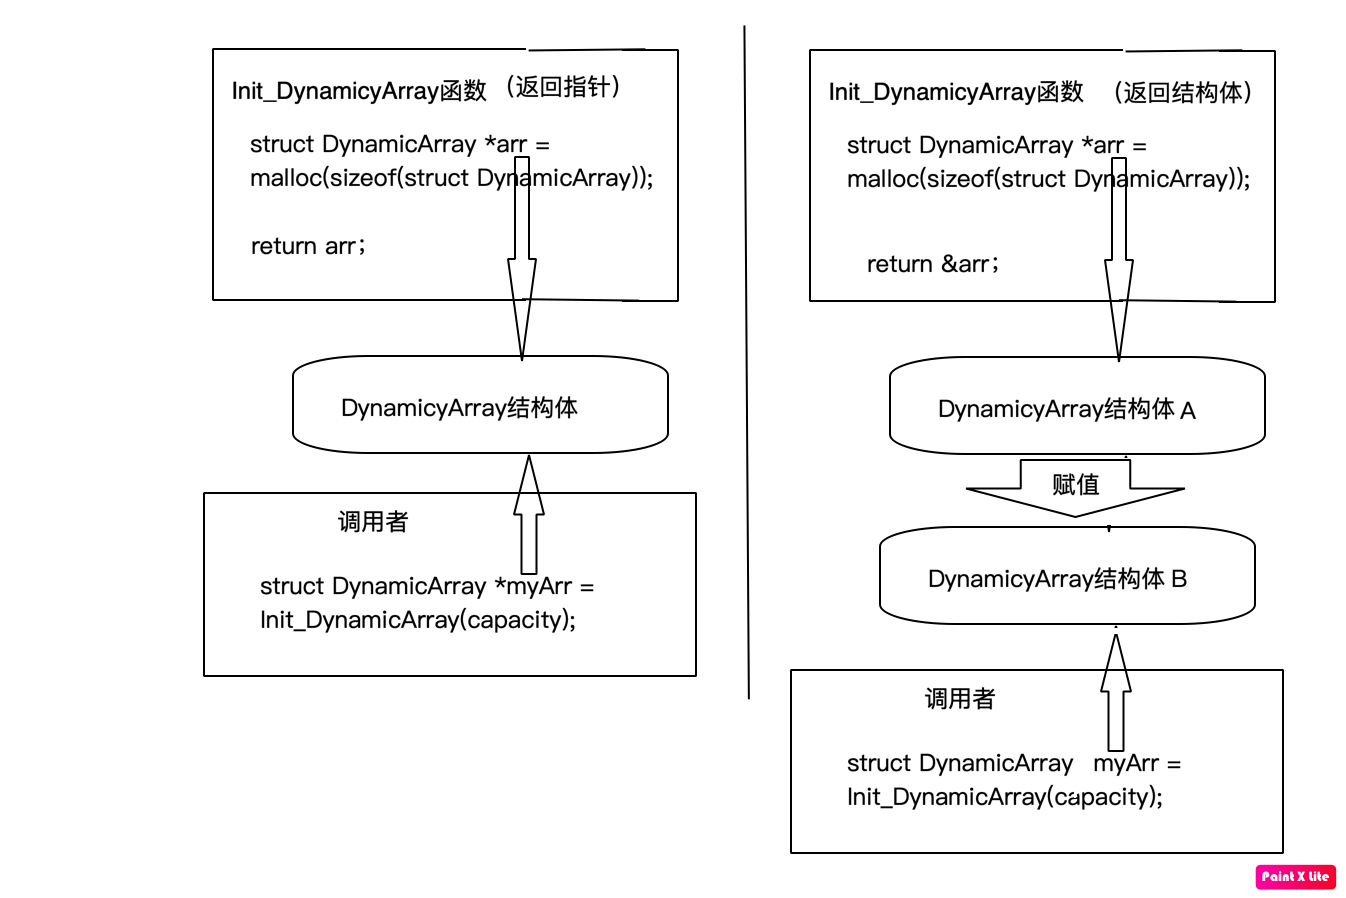
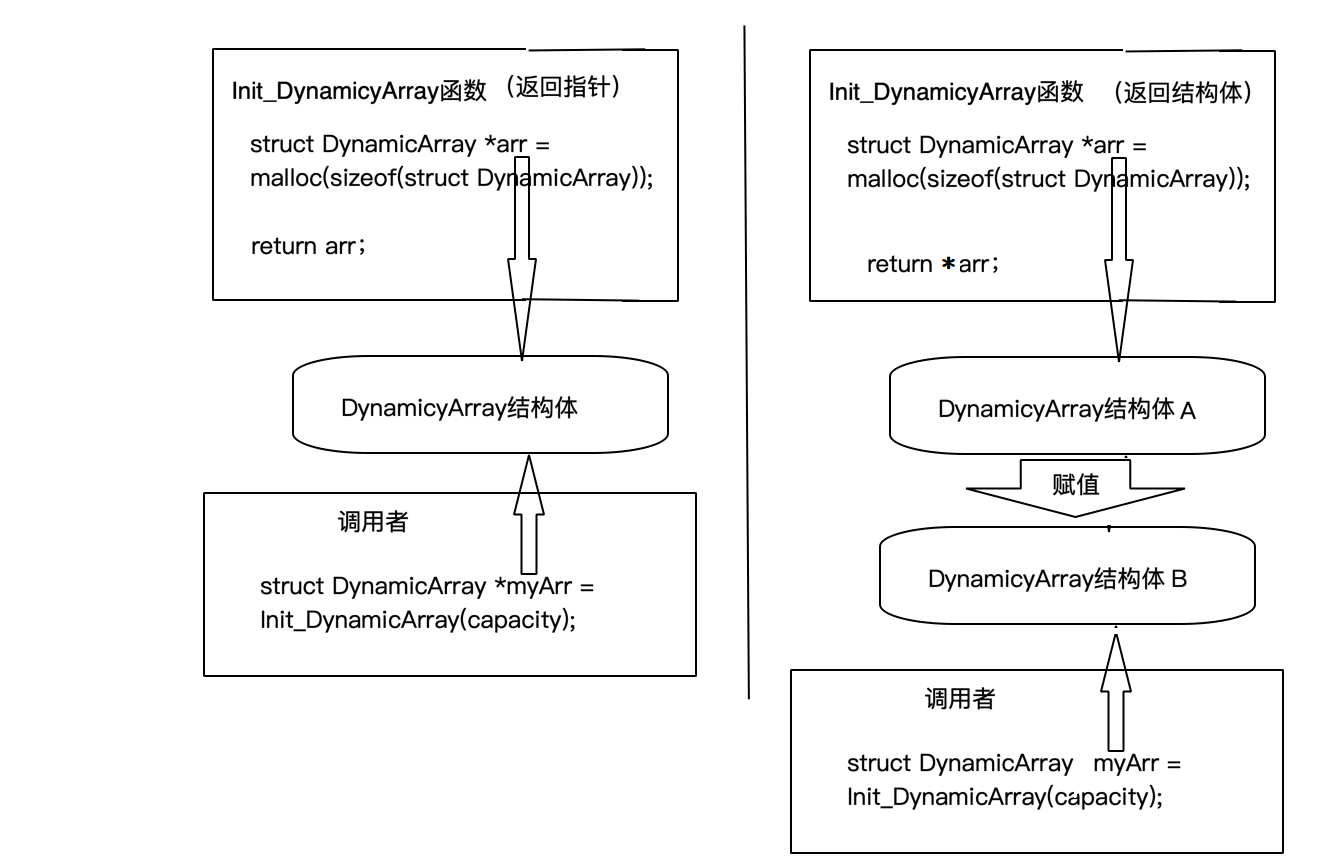
修改了数据结构01Day关于返回结构指针的说明

diff --git a/03-数据结构01Day.md b/03-数据结构01Day.md
@@ -25,8 +25,8 @@
 	![动态数组首地址内存模型.png](https://i.loli.net/2019/10/30/yPdwVA8MxQ7ojLp.png)
 - 在动态数组上面的操作上面的操作：
 	1. 初始化函数：struct DynamicArray* init_dynamic_array(int capacity) 返回值是struct DynamicArray*，一个指针类型，原因是这个函数会生成一个DynamicArray结构体，让调用者拿到指针可以直接指向原来开辟的结构体空间。返回结构体指针和结构体的区别如下图。
-	![函数返回结构体指针和结构体区别.png](https://i.loli.net/2019/10/30/bNRHmteUG87xijq.png)
-	返回指针指向的是同一块内存，即同一个结构体，返回结构体的会产生拷贝，结构体A是函数产生的，结构体B是myArr，他们不在同一块内存，当然调用完成后结构体A局部变量会被销毁，但是拷贝复值动作会多消耗系统资源。
+	![函数返回结构体指针和结构体区别.png](https://i.loli.net/2019/11/03/nriPTOEdw9FI3mG.png)
+	返回指针指向的是同一块内存，即同一个结构体，返回结构体的会产生拷贝，结构体A是函数产生的，结构体B是myArr，他们不在同一块内存，当然调用完成后指向结构体A的指针局部变量arr会被销毁，而结构体A没有被free掉，导致内存泄露，且拷贝复值动作会多消耗系统资源。
 	2. 遍历元素：void foreach\_dynamic\_array(struct DymicArray\* arr, void (\* \_callback) (void \*)) 这里的\_callback是函数指针，到时候需要调用者传递一个返回值为void，参数为void\*的函数，这样做的原因是动态数组保存的是void\*类型的数据，设计者不知道调用者会具体保存说明类型，故无法直接处理，只能留一个函数指针参数，到时候让调用者去实现。
 	3. 插入元素：void insert\_dynamic\_array(DynamicArray\* arr, int pos, void\* elem)
 	4. 删除元素(通过位置)：void remove\_by\_pos(DynamicArray\* arr, int pos)
